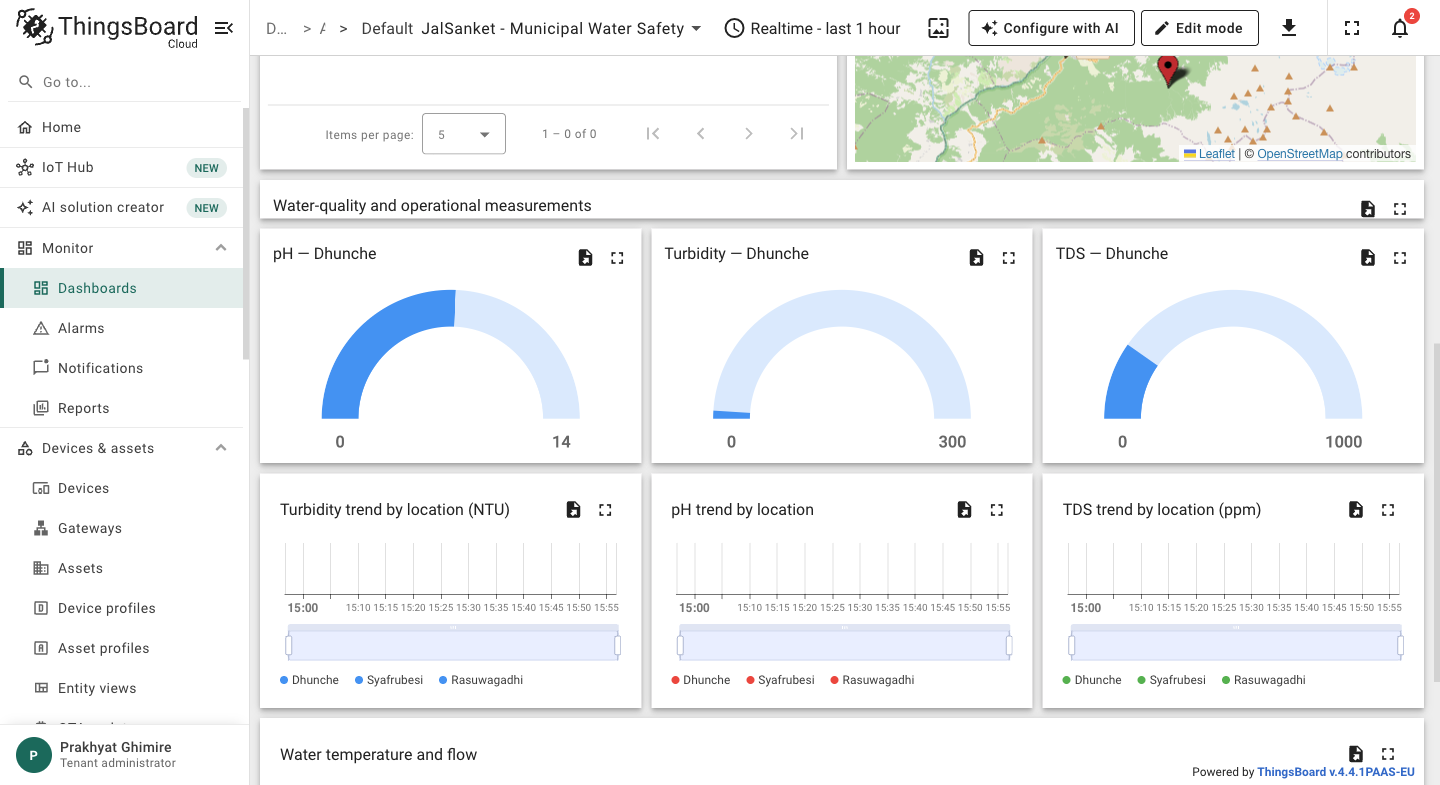
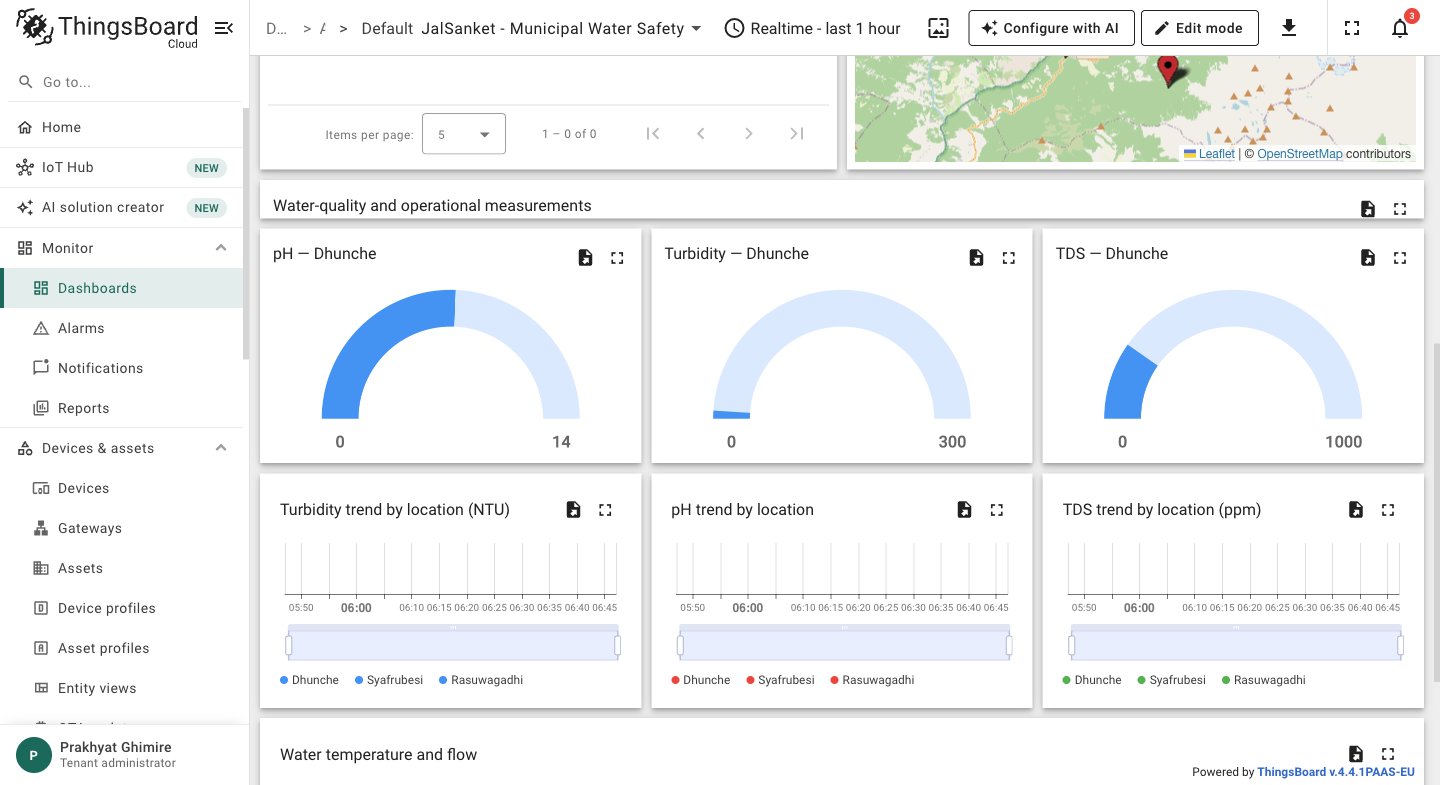
docs(dashboard): refresh red-critical alignment evidence

Changed region(s): [[0.1875, 0.7643, 0.4375, 0.7949], [0.75, 0.7643, 0.9688, 0.7949], [0.4688, 0.7643, 0.6875, 0.7949]]

diff --git a/evidence/dashboard_ux_revision_report.md b/evidence/dashboard_ux_revision_report.md
@@ -7,7 +7,7 @@ identity, token or Cloud alarm-rule behaviour was changed.
 Live dashboard kept: `8626a700-e451-11f1-8c2a-39d8a38c3af6`
 Fleet alias preserved: `JalSanket Fleet`, id `2ea433e1-1bb5-76cd-daee-b4c348e7e6b8`
 Generated artifact: `thingsboard/jalsanket_dashboard.json`
-Report date: 2026-11-23
+Report date: 2026-11-25 (alignment and critical-colour revision applied)
 
 ## 1. Exact dashboard changes
 
@@ -16,7 +16,12 @@ Report date: 2026-11-23
   - `system_status` — overall SAFE / WARNING / CRITICAL / OFFLINE banner with a
     one-line count of safe, warning, critical and offline locations.
   - `node_status` — one card each for Dhunche, Syafrubesi and Rasuwagadhi showing
-    only overall water status, active alarm, flow status and connectivity.
+    only overall water status, active alarm, flow status and connectivity. The
+    label/value rows use a fixed two-column grid so values line up across all
+    three cards, and a CRITICAL node card (and the overall banner) turns solid
+    red with white text instead of only showing a red accent. Offline cards now
+    explicitly say `OFFLINE` / `No recent reading` so they agree with the
+    overall status banner.
 - Replaced `alarms` with `active_alerts`: ACTIVE-only alarm table, severity-first
   sort (`-severity`), five rows per page, custom one-line human-readable cell
   (`CRITICAL — Syafrubesi — Turbidity critically high (time)`), and a widget
@@ -78,8 +83,12 @@ The final layout contains 13 widgets and no stale `summary`, `fleet_health`,
 - Primary labels are Dhunche, Syafrubesi and Rasuwagadhi; device IDs, MQTT
   topics, database terms and raw telemetry keys are not used as primary UI text.
 - Status semantics are consistent: `safetyStatus = UNSAFE` becomes CRITICAL,
-  `WARNING` stays WARNING, and `active = false` becomes OFFLINE, with the last
-  flow reading clearly marked as historical when offline.
+  `WARNING` stays WARNING, and `active = false` becomes OFFLINE. Offline cards
+  say `OFFLINE` and `No recent reading`, matching the overall banner instead of
+  showing a flow value that contradicts it.
+- A CRITICAL node is unmistakable: its whole card and the overall banner turn
+  solid red with white text and a red status pill. Data rows use a fixed
+  label/value grid, so the same field lines up across all three location cards.
 - CRITICAL alerts sort above MAJOR/WARNING and get a stronger red badge;
   warnings use orange and informational alerts use blue.
 - The map marker for an unsafe location says `Syafrubesi — CRITICAL`, so the
@@ -93,11 +102,12 @@ The final layout contains 13 widgets and no stale `summary`, `fleet_health`,
 - `python3 -m compileall -q jalsanket *.py` — passed.
 - `verify_phase1.py`, `verify_phase2.py`, `verify_phase3.py`,
   `verify_metrics.py` — all passed; no backend regression.
-- `verify_phase4.py` — 117/117 checks passed, including the new UX assertions:
+- `verify_phase4.py` — 121/121 checks passed, including the new UX assertions:
   no stale widgets, hierarchy order, labelled status-card values, explicit
-  severity words, ACTIVE/sorted custom alert cell, map label function, nested
-  gauge fonts with `levelColors`, preserved fleet alias, valid timewindow,
-  per-location chart legends and human-readable gauge titles.
+  severity words, aligned node-row columns, solid-red critical card CSS,
+  ACTIVE/sorted custom alert cell, map label function, nested gauge fonts with
+  `levelColors`, preserved fleet alias, valid timewindow, per-location chart
+  legends and human-readable gauge titles.
 - Live REST verification of dashboard `8626a700-...`: 13 expected widget ids,
   preserved alias id, dashboard timewindow unchanged, alert widget timewindow
   present, three location-named chart datasources, map functions present.
@@ -107,7 +117,9 @@ The final layout contains 13 widgets and no stale `summary`, `fleet_health`,
   `SYSTEM STATUS: CRITICAL`, `3 locations · 2 safe · 0 warning · 1 critical ·
   0 offline`; Dhunche SAFE, Syafrubesi CRITICAL, Rasuwagadhi SAFE; flows and
   connectivity were read from existing live values. No readings or alarms were
-  invented.
+  invented. Computed styles confirmed the overall banner and the Syafrubesi card
+  both use `rgb(198, 40, 40)` with white text, while the safe cards stay white;
+  node rows use a `144px 191px` label/value grid.
 - Map coordinates verified from existing telemetry: Dhunche 28.1100/85.2900,
   Syafrubesi 28.0920/85.3610, Rasuwagadhi 28.1710/85.3870.
 - Active-alert widget was probed earlier with a real CRITICAL alarm and rendered
